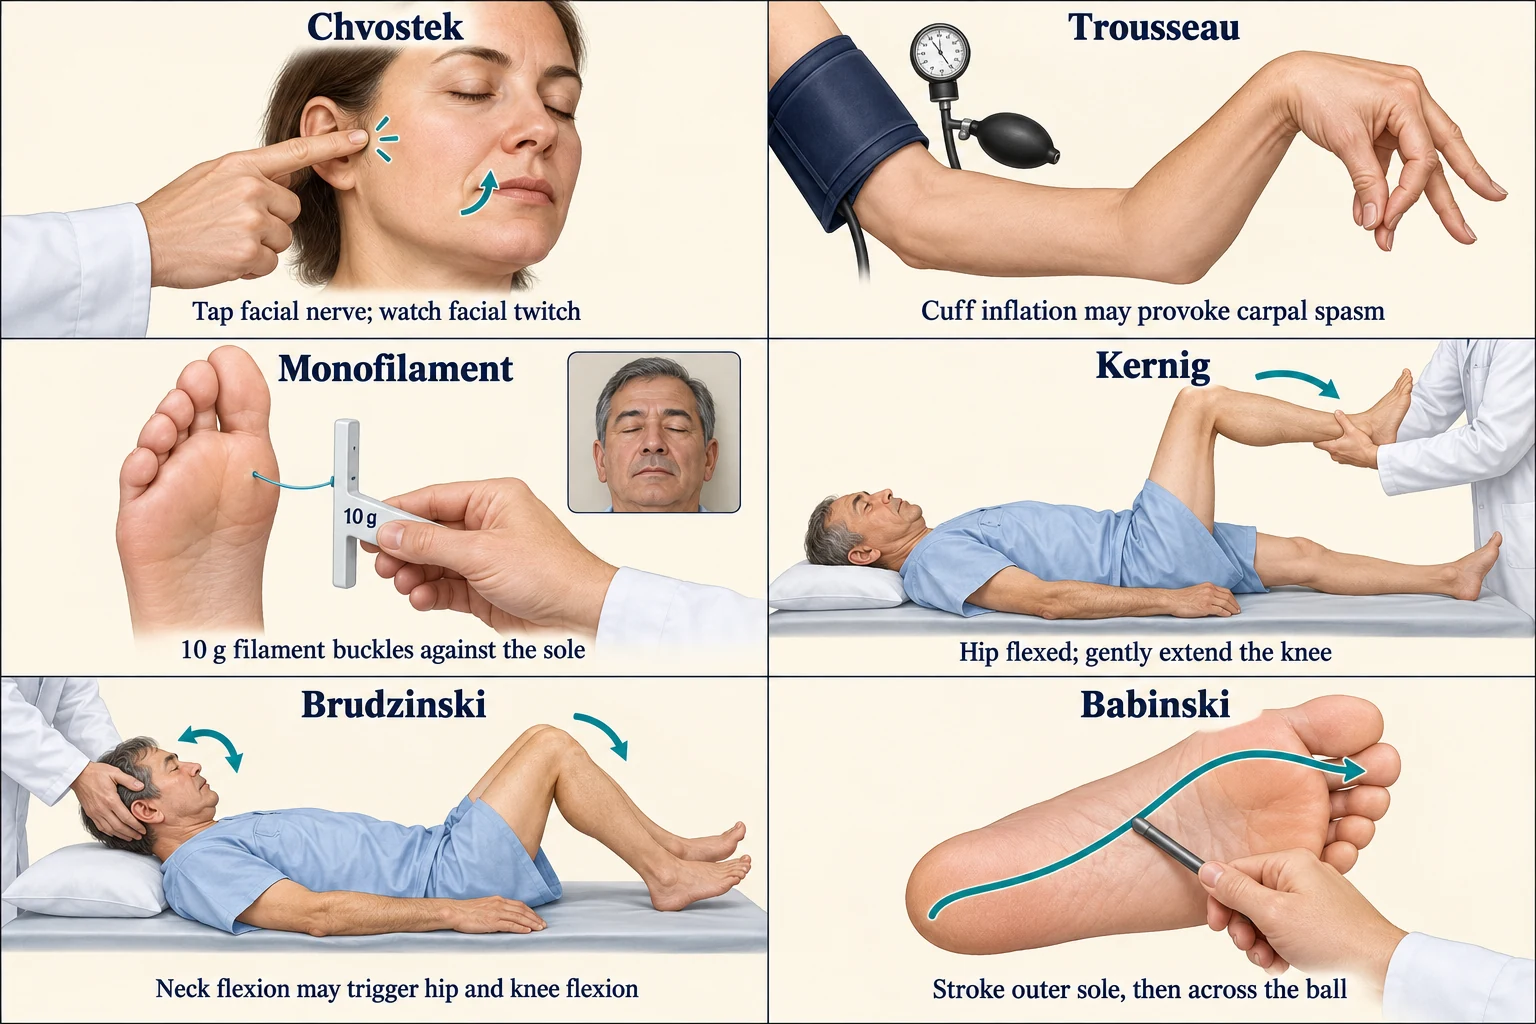
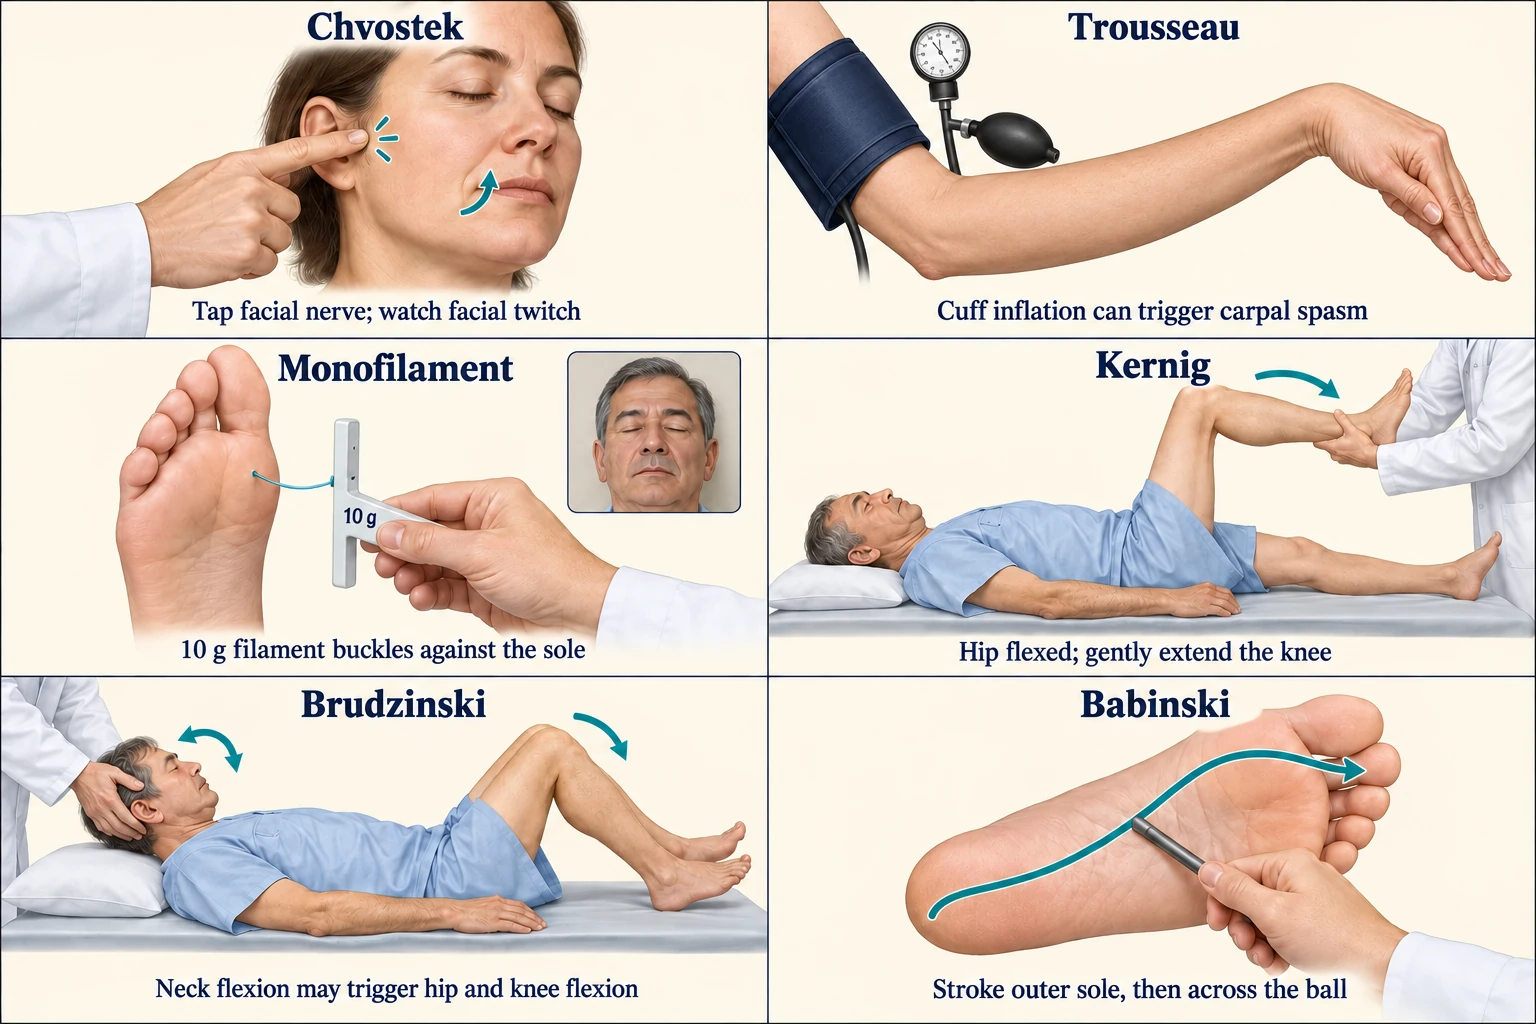
Correct Trousseau arm anatomy and carpal spasm illustration

diff --git a/bedside-tests.html b/bedside-tests.html
@@ -129,13 +129,13 @@ label.sl{display:block;font-weight:800;margin:0 0 7px}
   <a class="tmore" href="endo/NG-286_parathyroid-disorders.html">Read the full page &rarr;</a>
 </article>
 
-<article class="tst" data-course="NUR 258|NUR 198" data-mod="M5 Endocrine" data-sys="endo" data-name="trousseau&#x27;s sign" data-find="nur 198 m2 fluid & electrolytes trousseau&#x27;s sign carpal spasm / cuff sign nur 258 m5 endocrine endocrine &amp; metabolic low calcium. it is the more specific of the two calcium signs. carpal spasm - the wrist and fingers flex, the thumb draws across the palm, and the fingers come together in a cone. it is uncomfortable and she needs to know it is coming. have calcium gluconate available if the calcium is known to be low; laryngospasm is the emergency at the far end of this. put a blood-pressure cuff on her upper arm. inflate it about &lt;b&gt;20 mmhg above her systolic&lt;/b&gt; pressure. leave it up for &lt;b&gt;3 minutes&lt;/b&gt; and watch her hand.">
+<article class="tst" data-course="NUR 258|NUR 198" data-mod="M5 Endocrine" data-sys="endo" data-name="trousseau&#x27;s sign" data-find="nur 198 m2 fluid & electrolytes trousseau&#x27;s sign carpal spasm / cuff sign nur 258 m5 endocrine endocrine &amp; metabolic low calcium. it is the more specific of the two calcium signs. carpal spasm - the wrist and knuckles flex, the finger joints straighten, and the thumb draws across the palm with the fingers held together. it is uncomfortable and she needs to know it is coming. have calcium gluconate available if the calcium is known to be low; laryngospasm is the emergency at the far end of this. put a blood-pressure cuff on her upper arm. inflate it about &lt;b&gt;20 mmhg above her systolic&lt;/b&gt; pressure. leave it up for &lt;b&gt;3 minutes&lt;/b&gt; and watch her hand.">
   <h3><span class="ti">🧪</span><span>Trousseau&#x27;s sign <i class="aka">Carpal spasm / cuff sign</i></span></h3>
   <div class="tmeta"><span class="tb c">NUR 258</span><span class="tb c">NUR 198 &middot; M2 Fluid & Electrolytes</span><span class="tb">M5 Endocrine</span><span class="tb s">🧪 Endocrine &amp; metabolic</span></div>
-  <figure class="test-visual"><a class="test-picture" href="img/bedside-tests/sheet1.webp" data-picture-title="trousseau&#x27;s sign" aria-label="Enlarge illustration: trousseau&#x27;s sign"><span class="test-crop" style="aspect-ratio:768/339"><img src="img/bedside-tests/sheet1.webp" alt="An upper-arm blood-pressure cuff and a hand showing carpal spasm." width="1536" height="1024" loading="lazy" decoding="async" style="width:200.00000%;height:302.06490%;left:-100.00000%;top:0.00000%;"></span><span class="picture-action" aria-hidden="true">&#128269; Enlarge illustration</span></a><figcaption>An upper-arm blood-pressure cuff and a hand showing carpal spasm.</figcaption></figure>
+  <figure class="test-visual"><a class="test-picture" href="img/bedside-tests/trousseau-corrected.webp" data-picture-title="Trousseau’s sign" aria-label="Enlarge illustration: trousseau's sign"><span class="test-crop" style="aspect-ratio:1844/853"><img src="img/bedside-tests/trousseau-corrected.webp" alt="Upper-arm cuff with a straight forearm, flexed wrist, fingers held together and straight at the interphalangeal joints, and thumb drawn across the palm." width="1844" height="853" loading="lazy" decoding="async" style="width:100%;height:100%;left:0;top:0;"></span><span class="picture-action" aria-hidden="true">&#128269; Enlarge illustration</span></a><figcaption>Upper-arm cuff with a straight forearm, flexed wrist, fingers held together and straight at the interphalangeal joints, and thumb drawn across the palm.</figcaption></figure>
   <div class="tsec"><h4>&#127919; What you are testing for</h4><p>Low calcium. It is the more specific of the two calcium signs.</p></div>
   <div class="tsec"><h4>&#129467; How to do it</h4><ol><li>Put a blood-pressure cuff on her upper arm.</li><li>Inflate it about <b>20 mmHg above her systolic</b> pressure.</li><li>Leave it up for <b>3 minutes</b> and watch her hand.</li></ol></div>
-  <div class="tsec pos"><h4>&#128064; What a positive looks like</h4><p>Carpal spasm - the wrist and fingers flex, the thumb draws across the palm, and the fingers come together in a cone.</p></div>
+  <div class="tsec pos"><h4>&#128064; What a positive looks like</h4><p>Carpal spasm - the wrist and knuckles flex, the finger joints straighten, and the thumb draws across the palm with the fingers held together.</p></div>
   <div class="tsec pearl"><h4>&#9888;&#65039; The bit that catches people</h4><p>It is uncomfortable and she needs to know it is coming. Have calcium gluconate available if the calcium is known to be low; laryngospasm is the emergency at the far end of this.</p></div>
   <a class="tmore" href="endo/NG-286_parathyroid-disorders.html">Read the full page &rarr;</a>
 </article>
